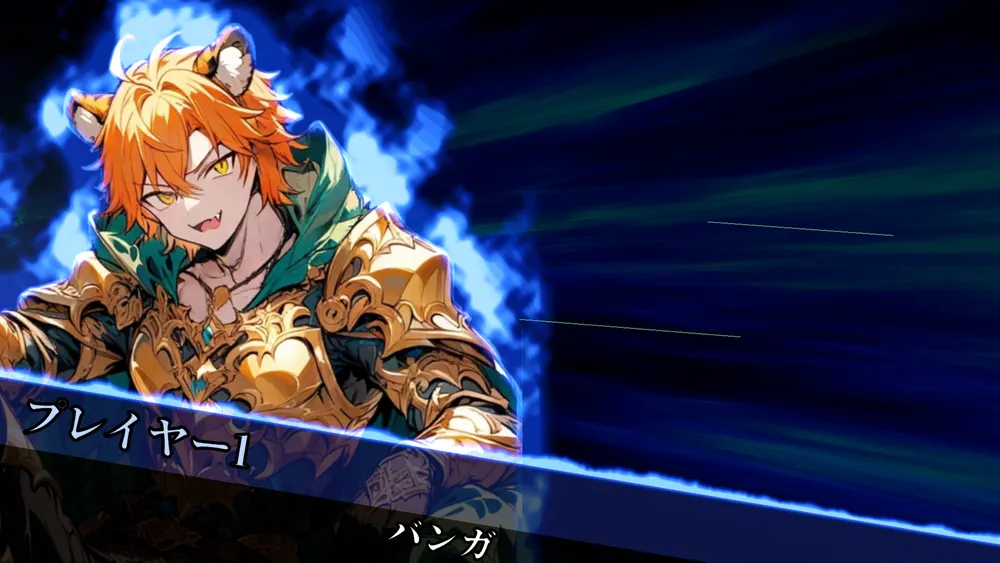
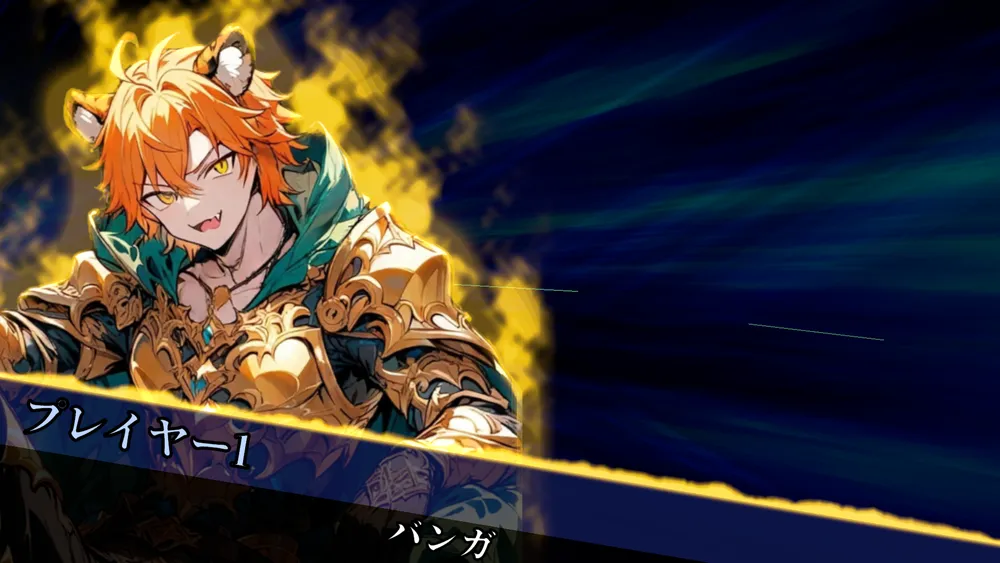
操作ページ（スキル）: 1枚目の画像を金色の炎の現行カットインに差し替え（alt も金色に）

diff --git a/game-skills.html b/game-skills.html
@@ -108,7 +108,7 @@
             </ul>
             <div class="img-slider" style="margin-top:1.5rem;">
                 <div class="slider-track">
-                    <div class="flow-figure"><img src="assets/guide/skill1.webp" alt="スキル発動の演出。キャラのイラストが青い炎をまとって大きく出て、下の帯にプレイヤー名とキャラ名が表示される" width="1000" height="563" loading="lazy"></div>
+                    <div class="flow-figure"><img src="assets/guide/skill1.webp" alt="スキル発動の演出。キャラのイラストが金色の炎をまとって大きく出て、下の帯にプレイヤー名とキャラ名が表示される" width="1000" height="563" loading="lazy"></div>
                     <div class="flow-figure"><img src="assets/guide/skill2.webp" alt="スキル「狩猟」の演出。岩が飛び散る中でキャラが力をためる映像に、スキル名と効果が表示される" width="1000" height="563" loading="lazy"></div>
                 </div>
                 <button type="button" class="slider-btn prev" aria-label="前の画像"><svg viewBox="0 0 16 16"><polyline points="10,3 5,8 10,13"/></svg></button>
